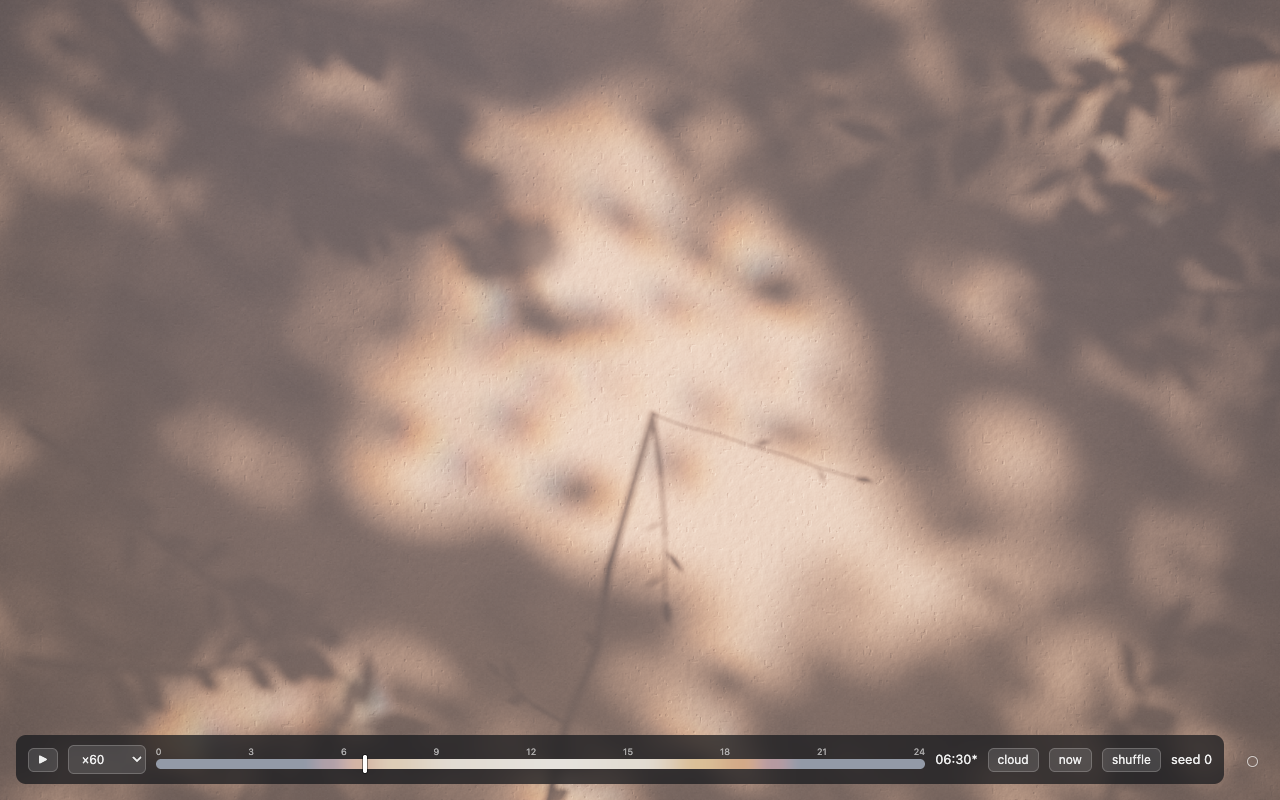
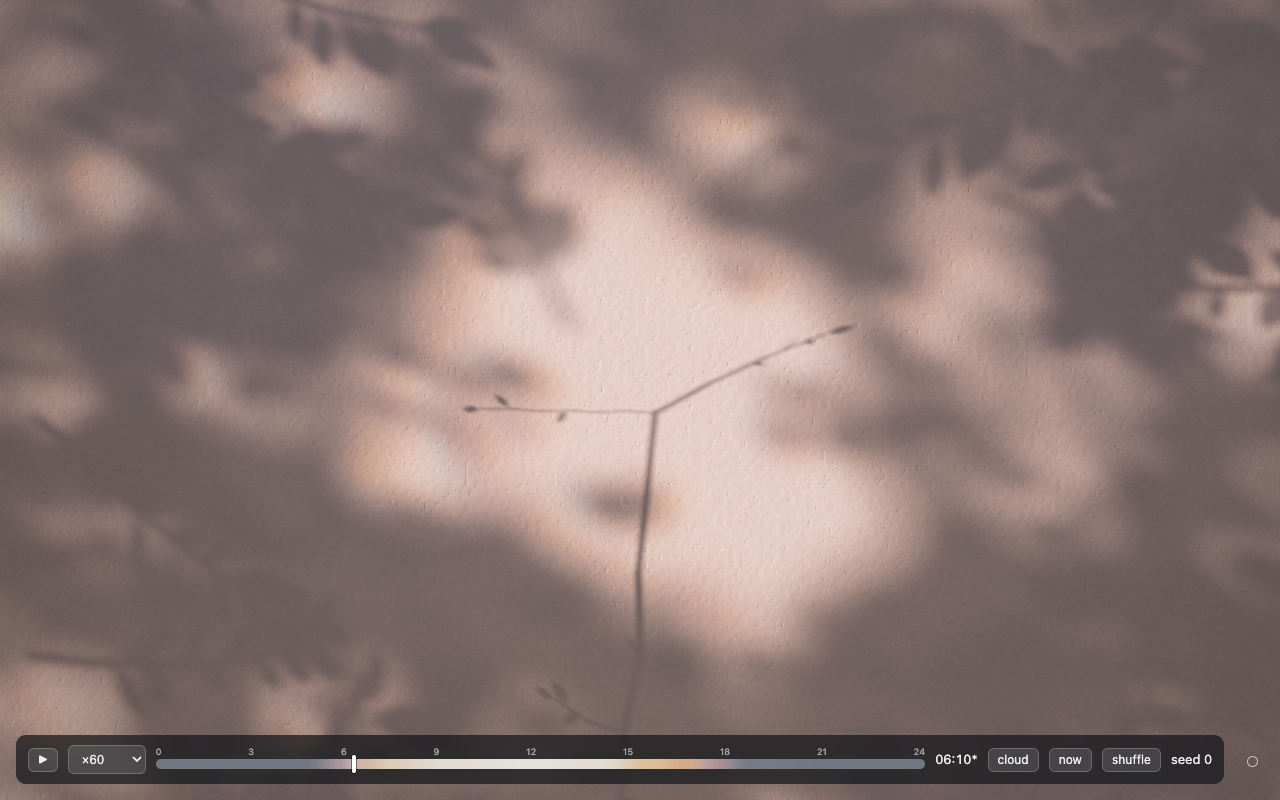
Komorebi Clock 1.0.2: the package and store graphics for the store
The real sun and moon, the time and almanac line, the sharper clock and the
cloud that crosses the wall. Screenshots at moments of October's own sky
(16:20 golden, 17:25 after sunset, the full moon of 26 Oct), in English.

diff --git a/komorebi/store/LISTING.md b/komorebi/store/LISTING.md
@@ -1,7 +1,7 @@
 # Chrome Web Store 掲載情報 — Komorebi Clock New Tab
 
 ## パッケージ
-- `dist/komorebi/komorebi-clock-newtab-1.0.1.zip`（Manifest V3、権限なし、外部通信なし。`dist/` は git 管理外）
+- `dist/komorebi/komorebi-clock-newtab-1.0.2.zip`（Manifest V3、権限なし、外部通信なし。`dist/` は git 管理外）
 - ドラッグ用にまとめたもの: `dist/komorebi/store-upload/`（zip、画像、コピー用の申請シート `copy_sheet.html`）
 
 ## ストアの掲載情報タブ
@@ -47,10 +47,10 @@ Click the faint ring in the lower-right corner to open the playground: scrub thr
 - アイコン 128×128: `extension/icons/icon128.png`（zip に同梱）
 - スクリーンショット 1280×800（5 枚、この順で）:
   1. `screenshot_1280x800_a.png` — 朝 10:08
-  2. `screenshot_1280x800_b.png` — 夕方 17:40
-  3. `screenshot_1280x800_c.png` — 日没後 19:20
-  4. `screenshot_1280x800_d.png` — 夜 23:15（月明かり）
-  5. `screenshot_1280x800_e.png` — playground を開いたところ（06:30）
+  2. `screenshot_1280x800_b.png` — 夕方の金色の光 16:20
+  3. `screenshot_1280x800_c.png` — 日没後 17:25
+  4. `screenshot_1280x800_d.png` — 満月の夜 22:00（10/26）
+  5. `screenshot_1280x800_e.png` — playground を開いたところ（夜明け 06:10）
 - 小プロモーションタイル 440×280: `promo_small_440x280.png`
 - マーキー プロモーションタイル 1400×560（任意）: `promo_marquee_1400x560.png`
 - プロモーション動画（任意）: 欄は YouTube の URL。上げる場合は紹介動画（日中・時間帯つなぎ）を使う
